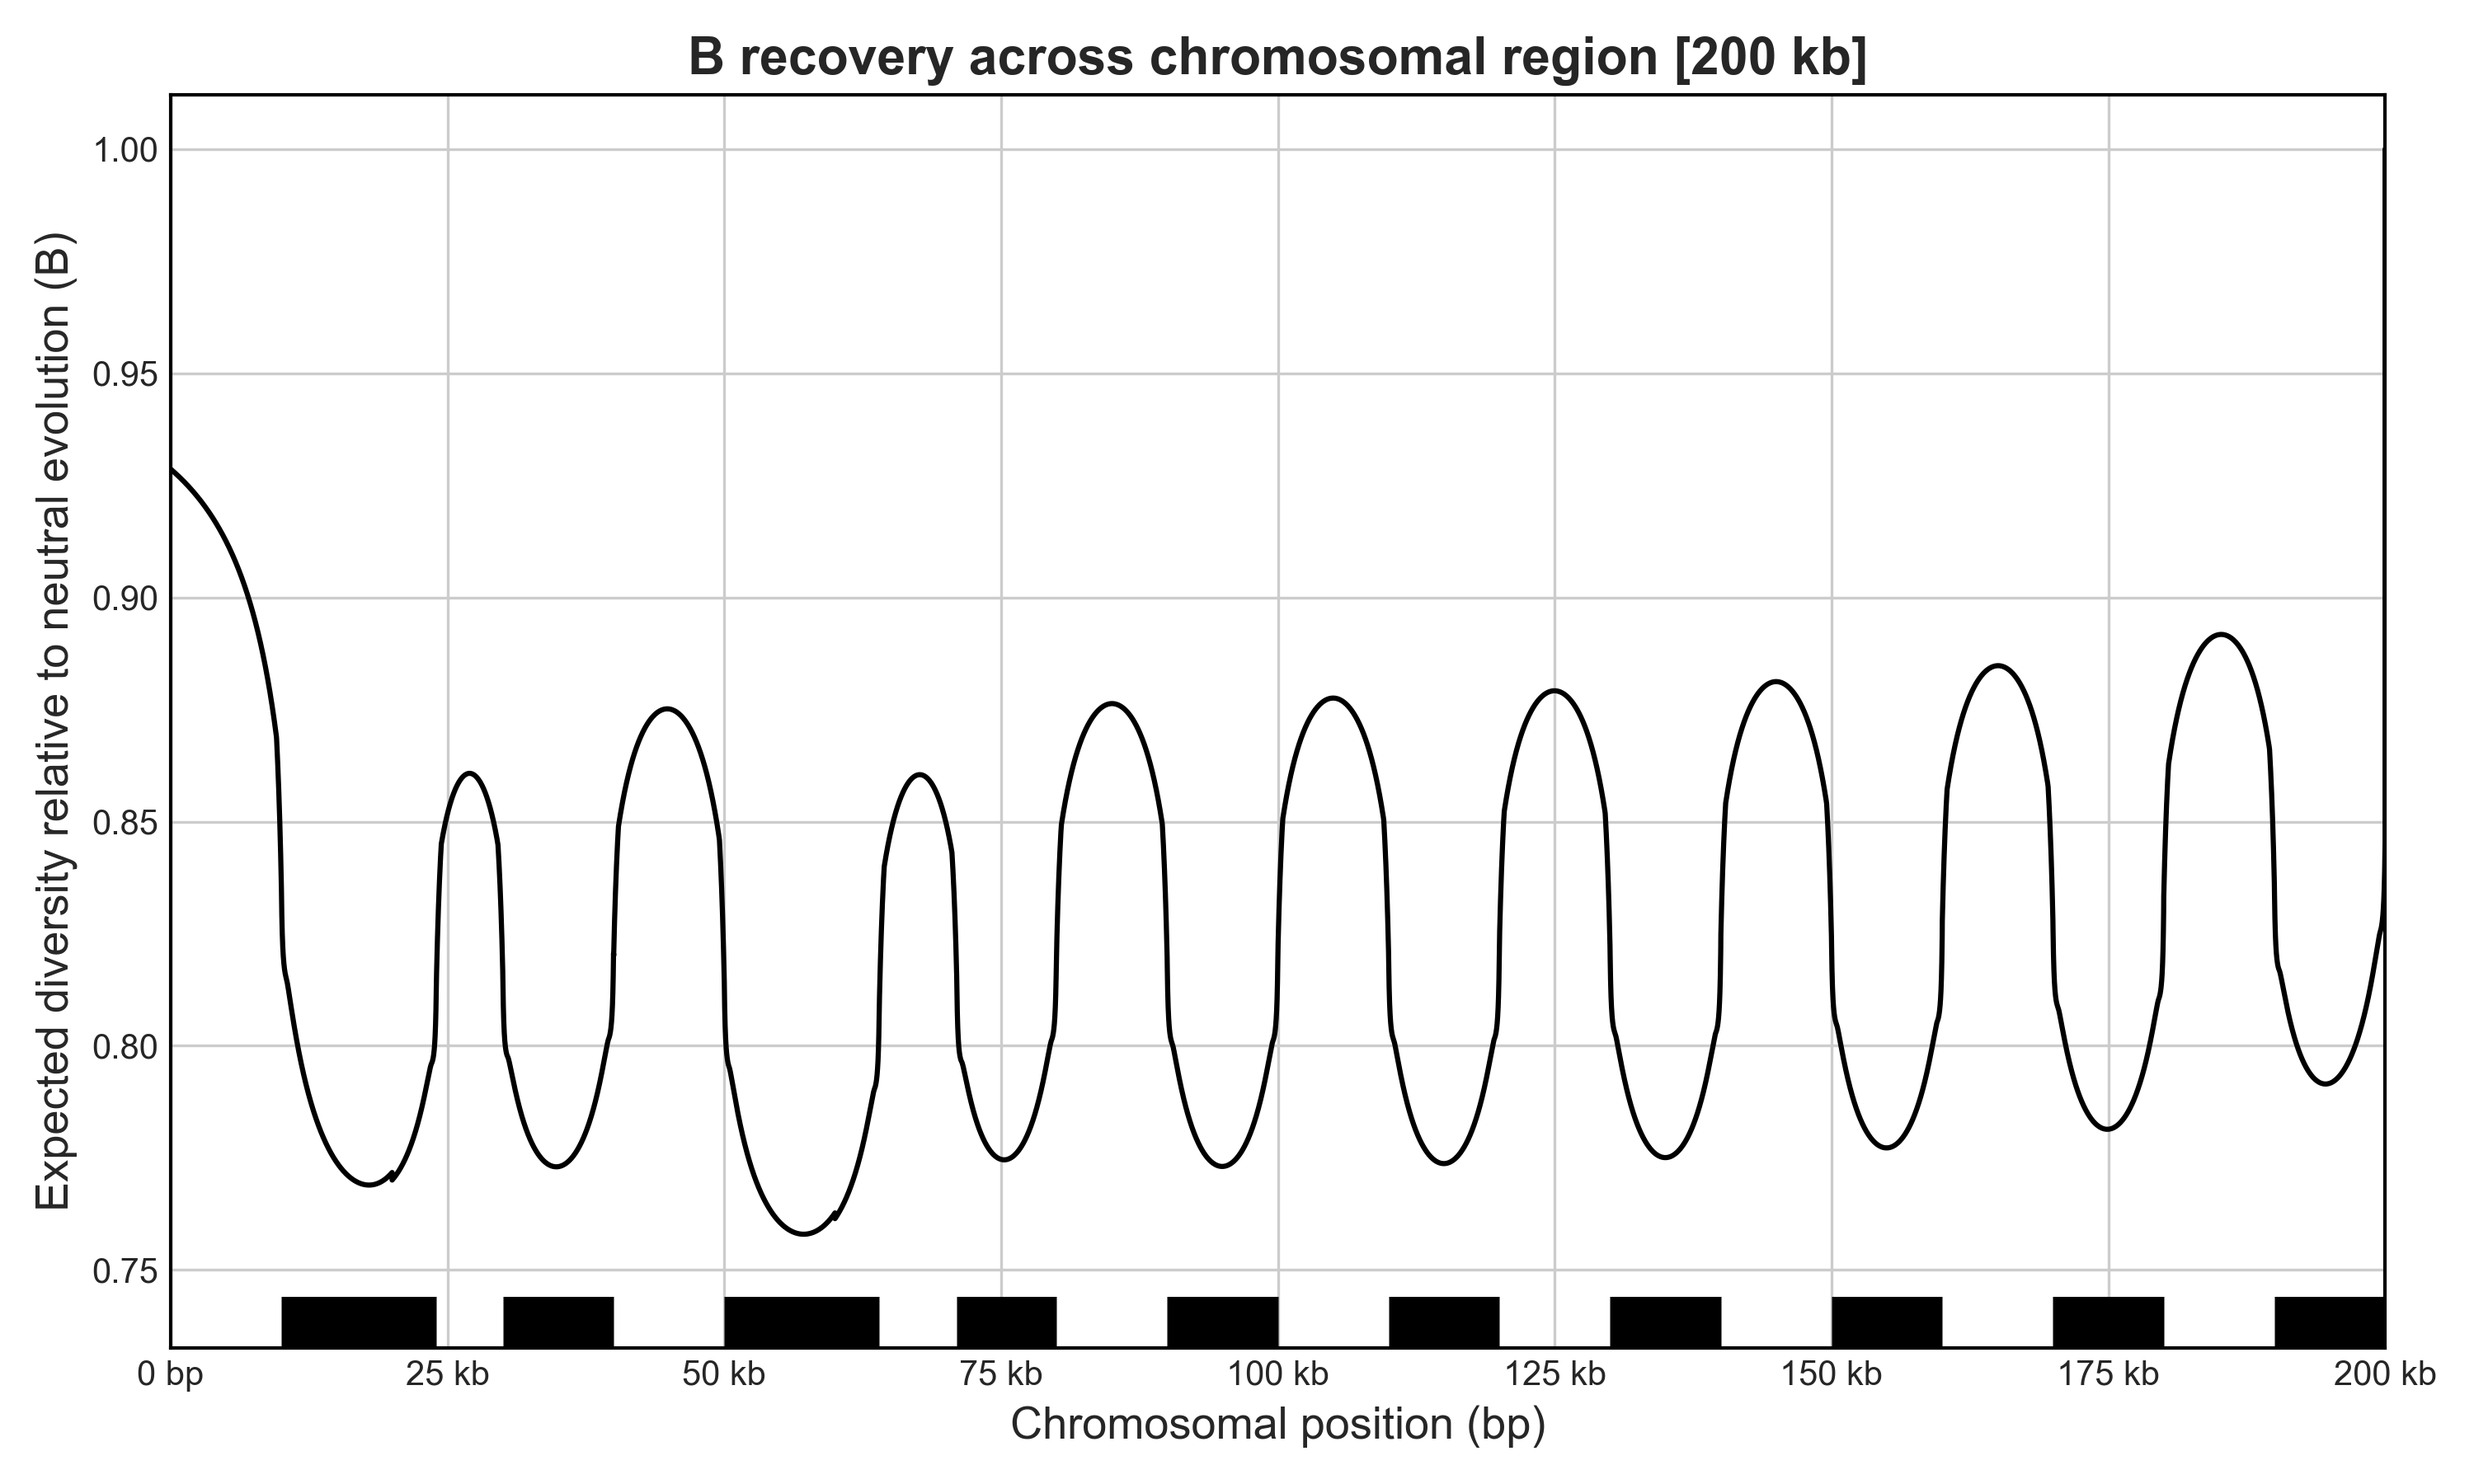
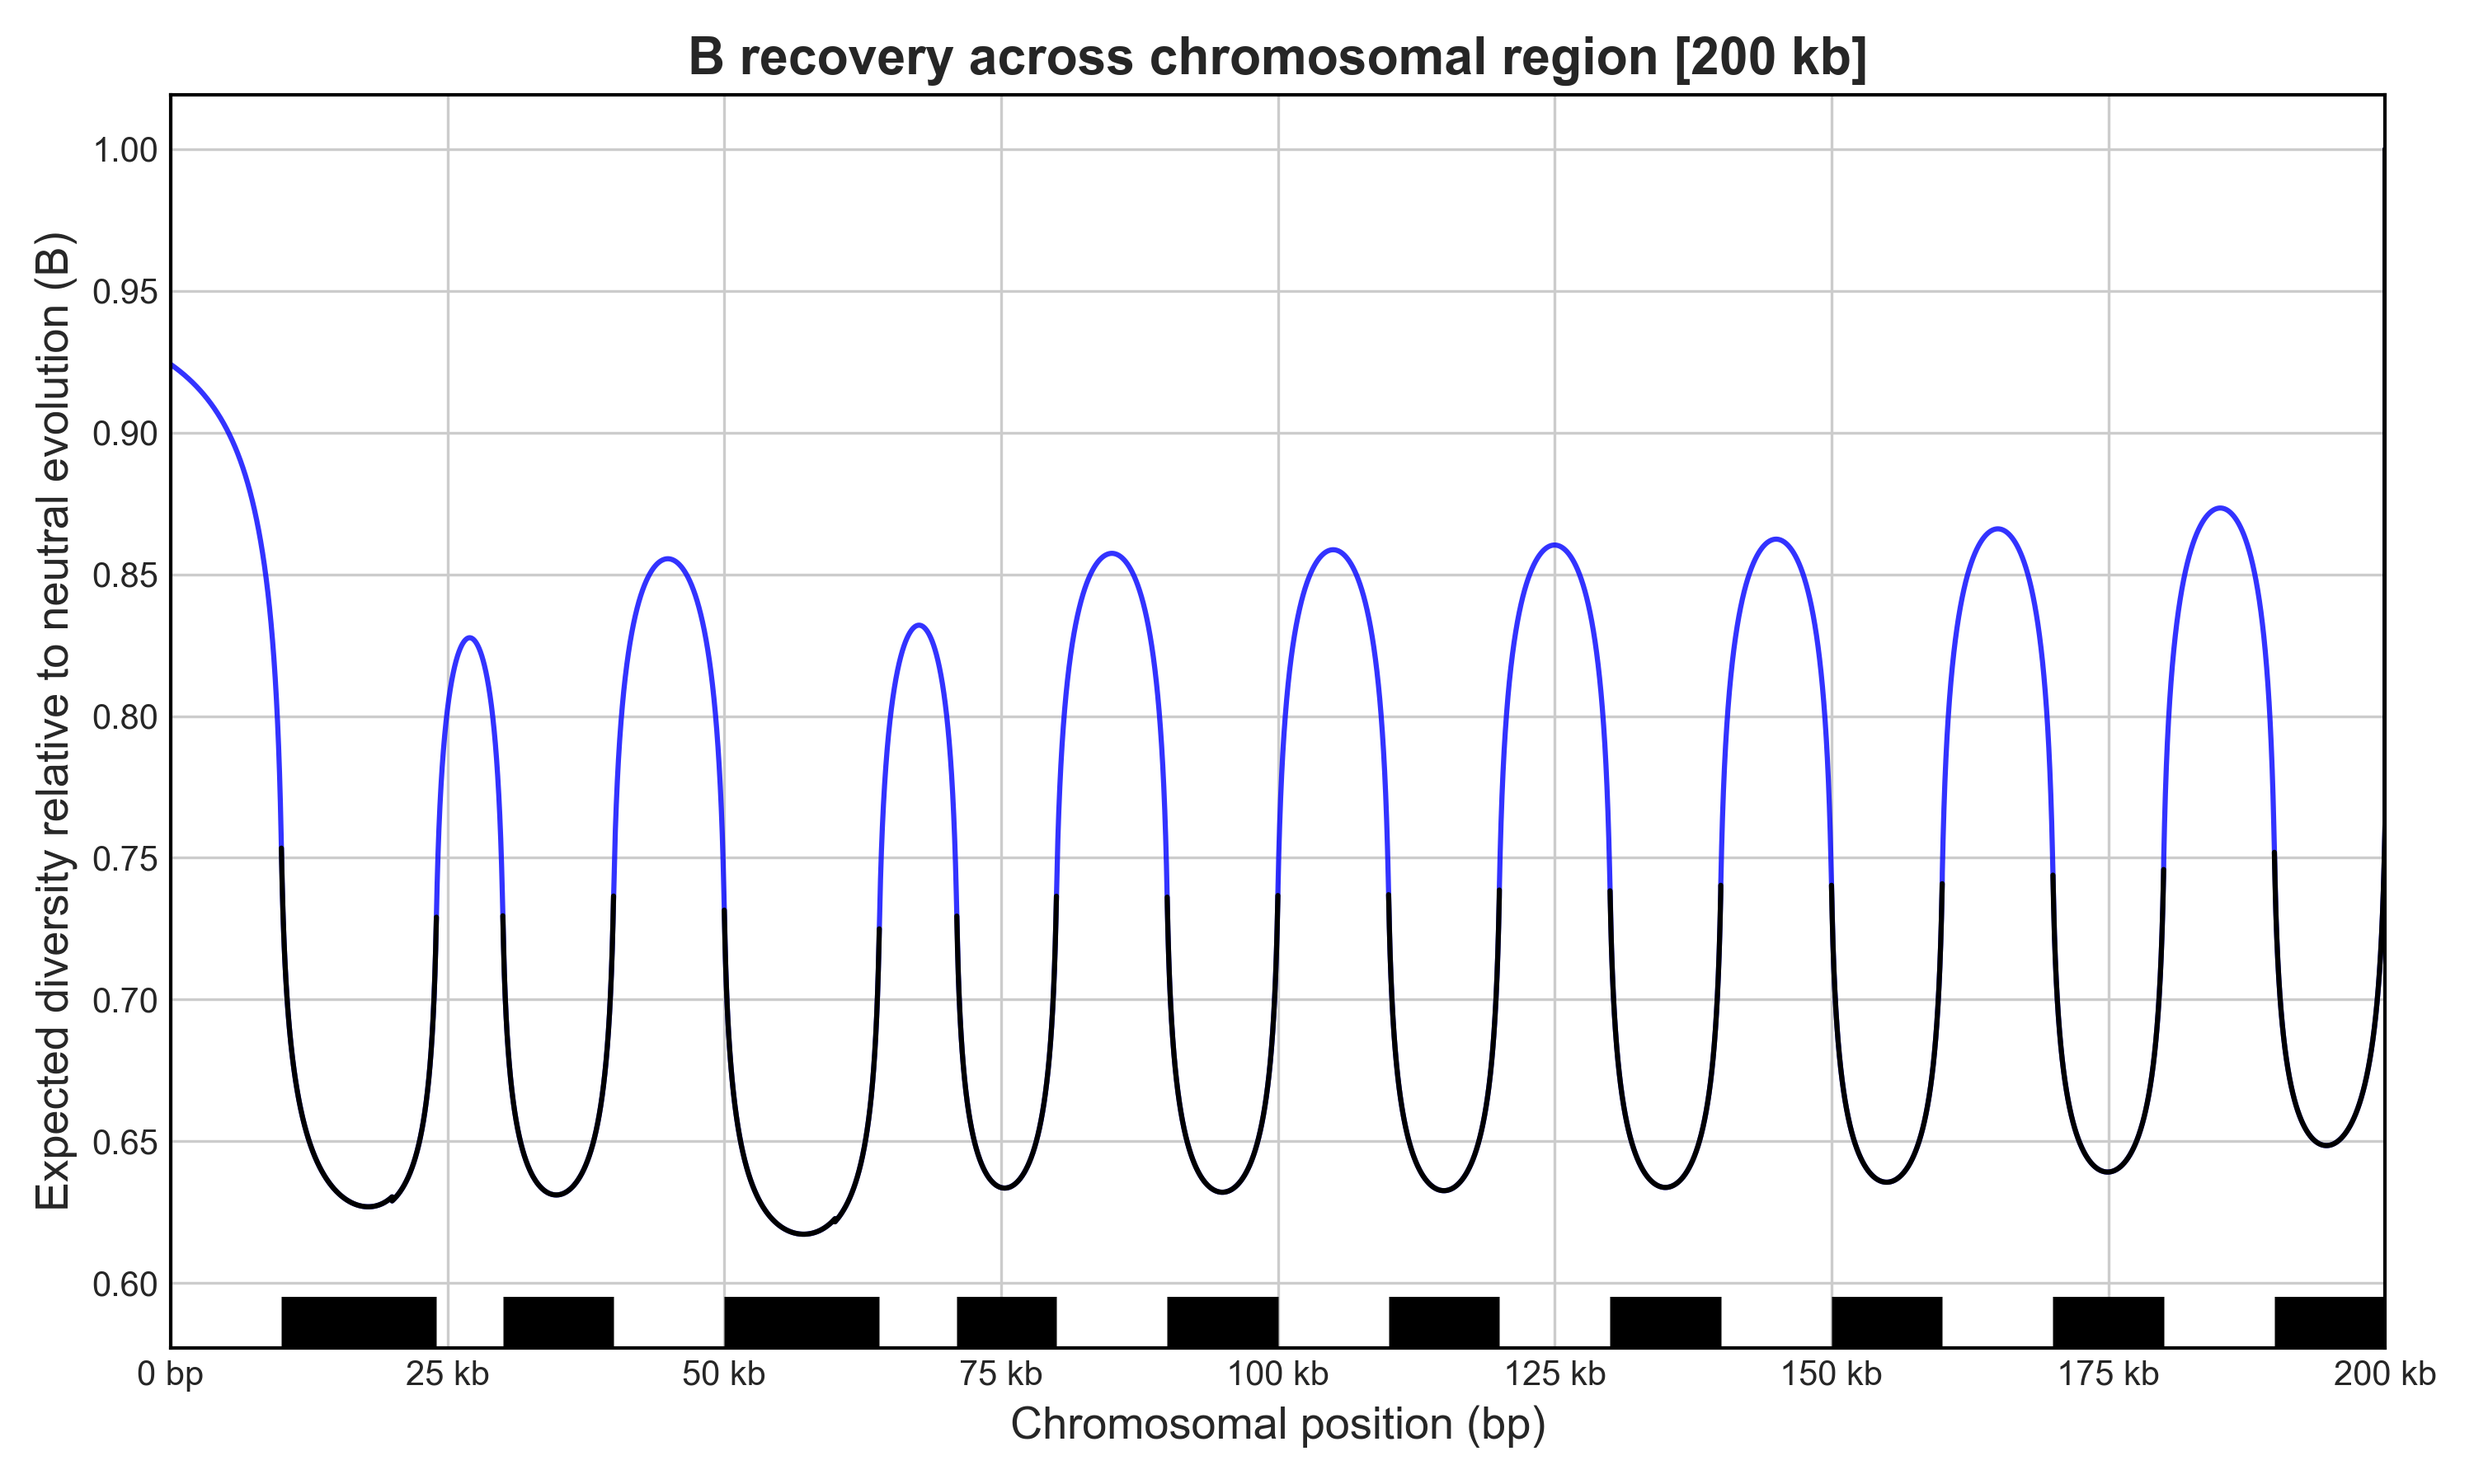
Change colour of neutral sites on genome_plot

diff --git a/helperScripts/plotBasic.py b/helperScripts/plotBasic.py
@@ -1,9 +1,11 @@
 import matplotlib.pyplot as plt
 import matplotlib as mpl
 import matplotlib.ticker as ticker
+import numpy as np
 
-def plotBasic(b_values_input, caller, output_path, silent, genes = None):
-    if not silent: print('====== P L O T T I N G . . . =======================')
+def plotBasic(b_values_input, caller, output_path, silent, genes=None):
+    if not silent: 
+        print('====== P L O T T I N G . . . =======================')
     
     # Set the font family with a fallback list.
     mpl.rcParams['font.family'] = ['Helvetica', 'DejaVu Sans', 'Arial']
@@ -30,7 +32,8 @@ def plotBasic(b_values_input, caller, output_path, silent, genes = None):
     x = b_values_input[:, 0]  # x-values (positions)
     y = b_values_input[:, 1]  # y-values (corresponding values)
 
-    ax.plot(x, y, color='black', lw=1.5)
+    # Plot the entire B line as a solid black line.
+    ax.plot(x, y, color='blue', lw=1.5, alpha=0.8)
     ax.set_xlim(x.min() - 1, x.max())
     
     ax.set_ylabel('Expected diversity relative to neutral evolution (B)', fontsize=13)
@@ -43,23 +46,37 @@ def plotBasic(b_values_input, caller, output_path, silent, genes = None):
 
     ax.tick_params(axis='both', which='major', labelsize=10)
 
-        # If gene annotations are provided, add them as horizontal bars
+    # If gene annotations are provided, add them as horizontal bars.
     if genes is not None and len(genes) > 0:
-        # Get current y-limits so we can draw below the axis
+        # Get current y-limits so we can draw below the axis.
         ymin, ymax = ax.get_ylim()
         bar_y = ymin - (ymax - ymin) * 0.05  # 5% below the axis
-        
-        # Expand the y-limits to make space for bars
+        # Expand the y-limits to make space for bars.
         ax.set_ylim(bar_y, ymax)
-        
         for start, end in genes:
             ax.hlines(y=bar_y, xmin=start, xmax=end, colors='black', linewidth=30)
+        
+        # When caller is "genome", overlay red line segments for gene regions.
+        if caller == "genome":
+            # Create a boolean mask for x-values within any gene interval.
+            gene_mask = np.zeros_like(x, dtype=bool)
+            for start, end in genes:
+                gene_mask |= ((x >= start) & (x <= end))
+            # Find indices where gene_mask is True.
+            idx = np.where(gene_mask)[0]
+            if len(idx) > 0:
+                # Split the indices into contiguous segments.
+                segments = np.split(idx, np.where(np.diff(idx) != 1)[0] + 1)
+                for seg in segments:
+                    ax.plot(x[seg], y[seg], color='black', lw=1.5)
 
-
-    # Format the x-axis ticks:
+    # Format the x-axis ticks.
     ax.xaxis.set_major_formatter(
         ticker.FuncFormatter(
-            lambda x, pos: f"{int(x)} bp" if x < 1000 else (f"{x/1e6:.2f} Mb" if x >= 1000000 else f"{int(x/1000)} kb")))
+            lambda x_val, pos: f"{int(x_val)} bp" if x_val < 1000 
+            else (f"{x_val/1e6:.2f} Mb" if x_val >= 1000000 else f"{int(x_val/1000)} kb")
+        )
+    )
     
     plt.tight_layout()
     plt.savefig(output_path, dpi=300)

diff --git a/helperScripts/calculateB.py b/helperScripts/calculateB.py
@@ -39,27 +39,29 @@ def calculateB_linear(distance_to_element, length_of_element):
     Calculate the B value for a single functional element at the focal site,
     summing over the DFE while consolidating the intermediate calculations.
     """    
+    with np.errstate(divide='ignore', invalid='ignore'):
+        C = (1.0 - np.exp(-2.0 * r * distance_to_element)) / 2.0 # cM
+        U = length_of_element * u
+        if g == 0:
+            a = C # RECOMBINATION IN Y
+            b = C + (r * length_of_element) # RECOMBINATION IN X
+        elif g > 0:
+            a, b = get_a_b_with_GC(C, distance_to_element, length_of_element)
 
-    C = (1.0 - np.exp(-2.0 * r * distance_to_element)) / 2.0 # cM
-    U = length_of_element * u
-    if g == 0:
-        a = C # RECOMBINATION IN Y
-        b = C + (r * length_of_element) # RECOMBINATION IN X
-    elif g > 0:
-        a, b = get_a_b_with_GC(C, distance_to_element, length_of_element)
+        E_f1 = calculate_exponent(t1half, t2, U, a, b)
+        E_f2 = calculate_exponent(t2, t3, U, a, b)
+        E_f3 = calculate_exponent(t3, t4, U, a, b)
 
-    E_f1 = calculate_exponent(t1half, t2, U, a, b)
-    E_f2 = calculate_exponent(t2, t3, U, a, b)
-    E_f3 = calculate_exponent(t3, t4, U, a, b)
+        E_bar = ( # Sum over the DFE
+            f0 * 0.0
+            + f1 * ((t1half - t1) / (t2 - t1)) * 0.0
+            + f1 * ((t2 - t1half) / (t2 - t1)) * E_f1
+            + f2 * E_f2
+            + f3 * E_f3)
 
-    E_bar = ( # Sum over the DFE
-        f0 * 0.0
-        + f1 * ((t1half - t1) / (t2 - t1)) * 0.0
-        + f1 * ((t2 - t1half) / (t2 - t1)) * E_f1
-        + f2 * E_f2
-        + f3 * E_f3)
-
-    return np.exp(-1.0 * E_bar) # Return B
+        B = np.exp(-1.0 * E_bar)
+        
+    return np.where(length_of_element == 0, 1.0, B)
 
 
 def calculateB_recmap(distance_to_element, length_of_element, 

diff --git a/ExampleParams.py b/ExampleParams.py
@@ -5,7 +5,7 @@
 ##        ./Bvalcalc --genome --pop_params ExampleParams.py
 
 x = 100 # Scaling Factor (N,u,r), keep as [1] unless calculating for rescaled simulations
-g = 1*1e-8*x # Gene conversion initiation rate per bp, per generation
+g = 0*1e-8*x # Gene conversion initiation rate per bp, per generation
 k = 440 # Gene conversion tract length (bp)
 r = 0.5*1e-8*x #rate of recombination
 u = 3*1e-9*x #(*Mutation rate*)
